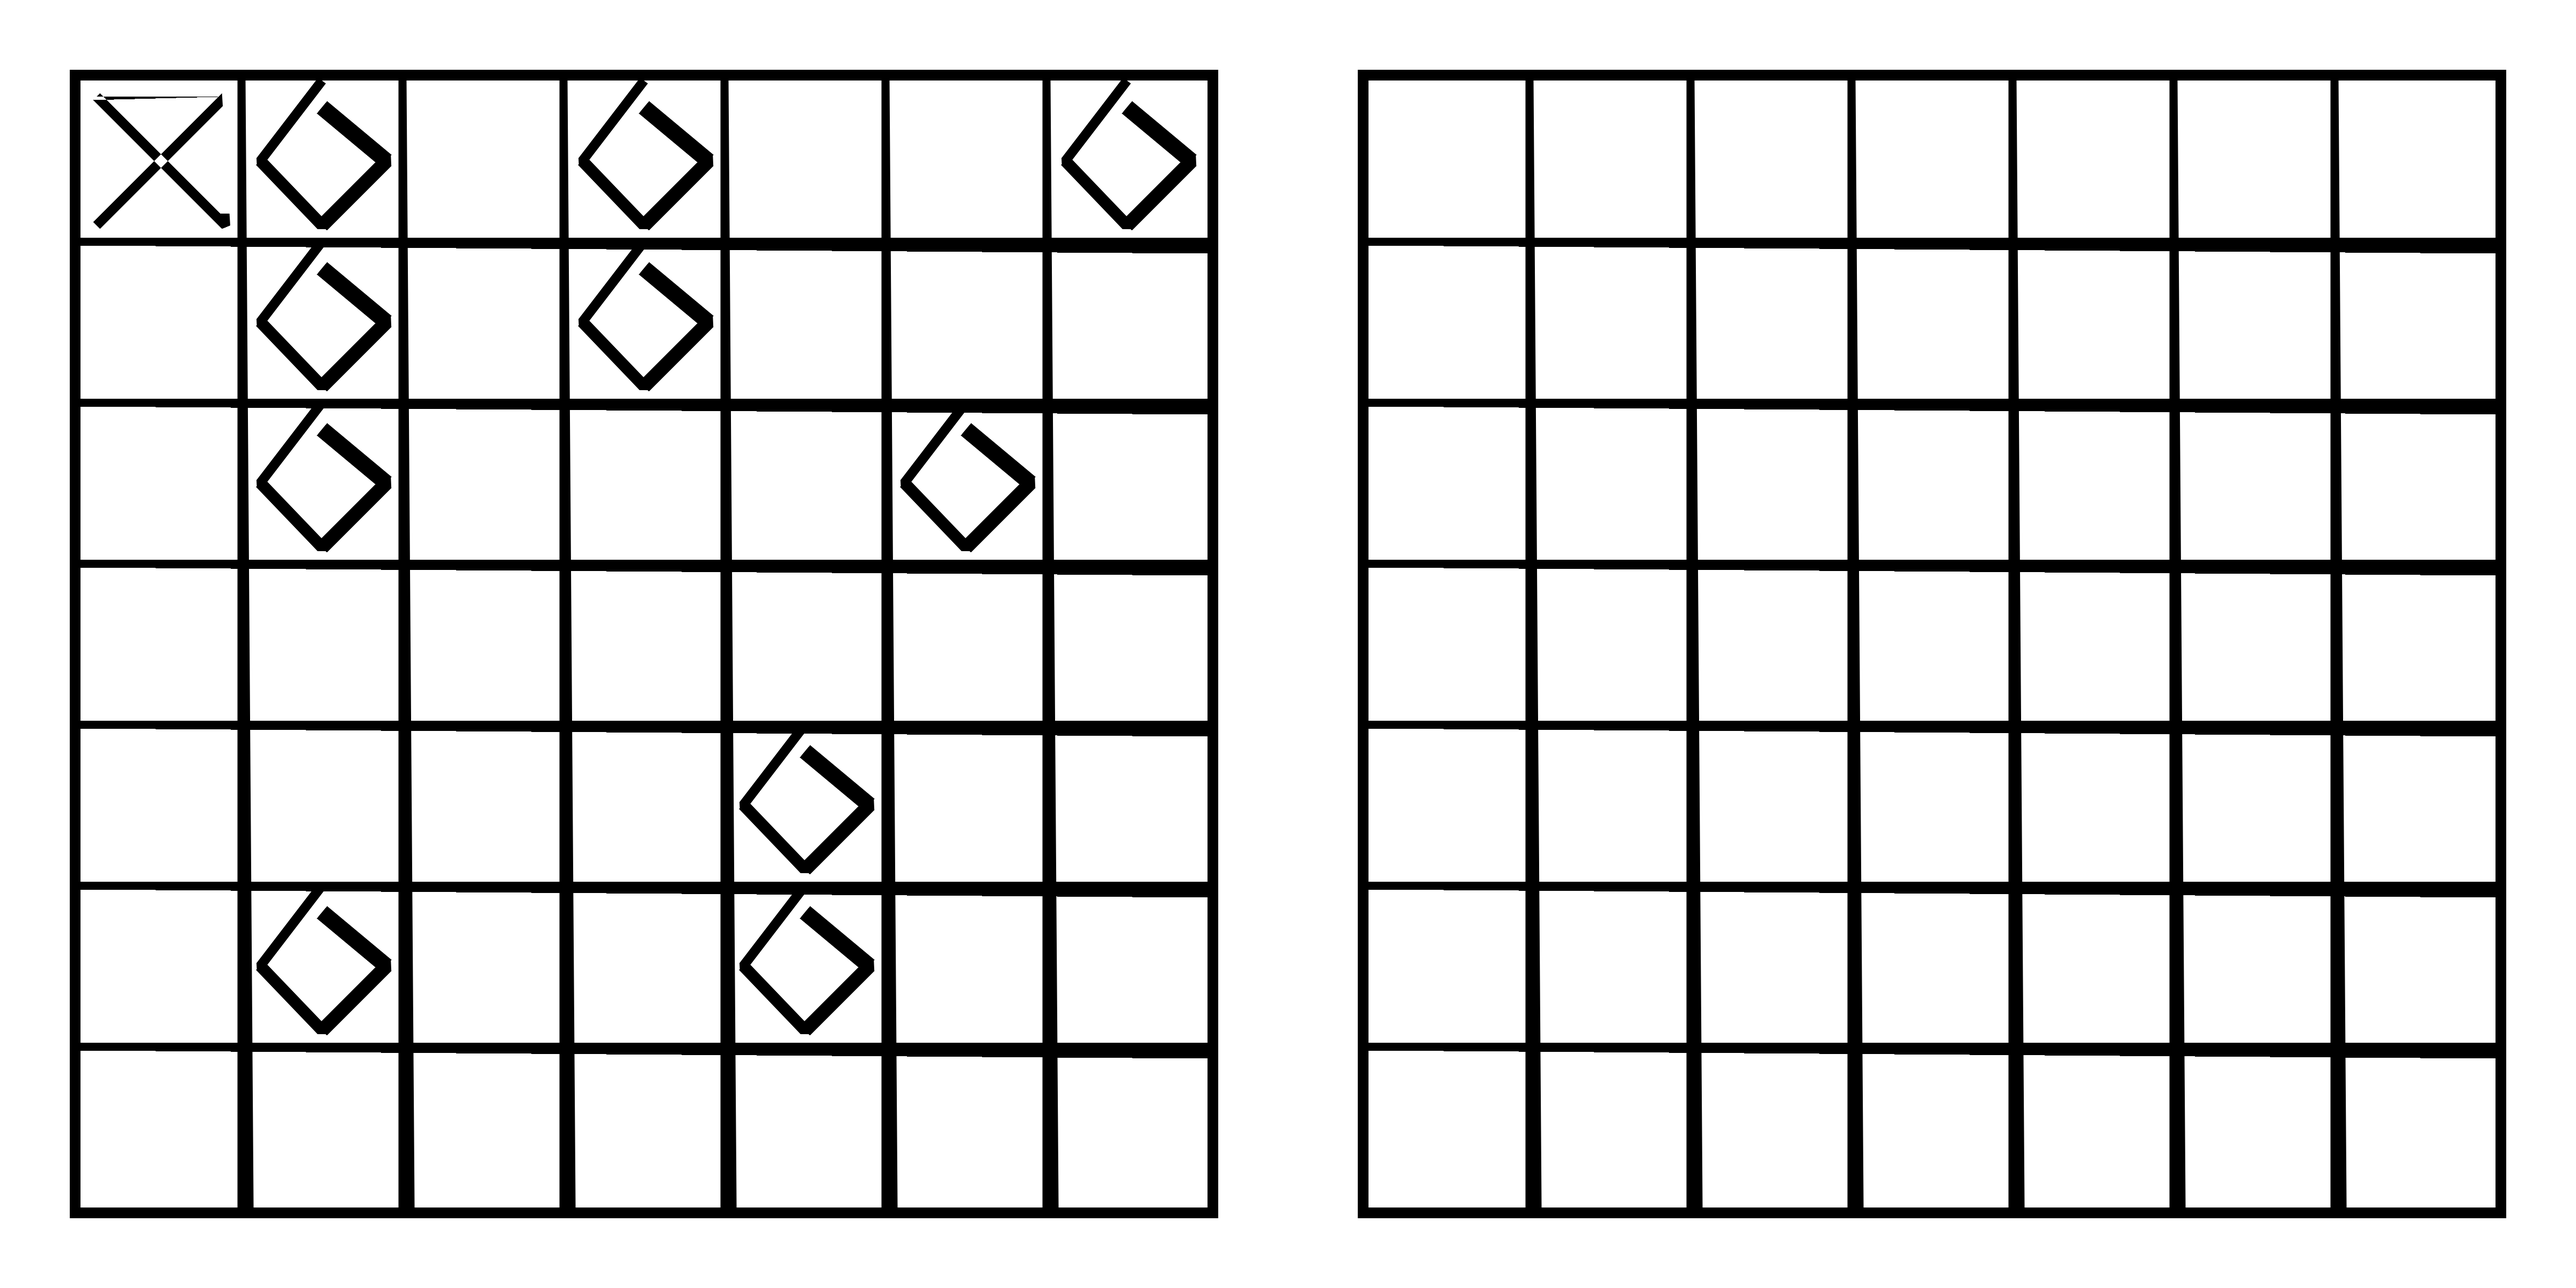
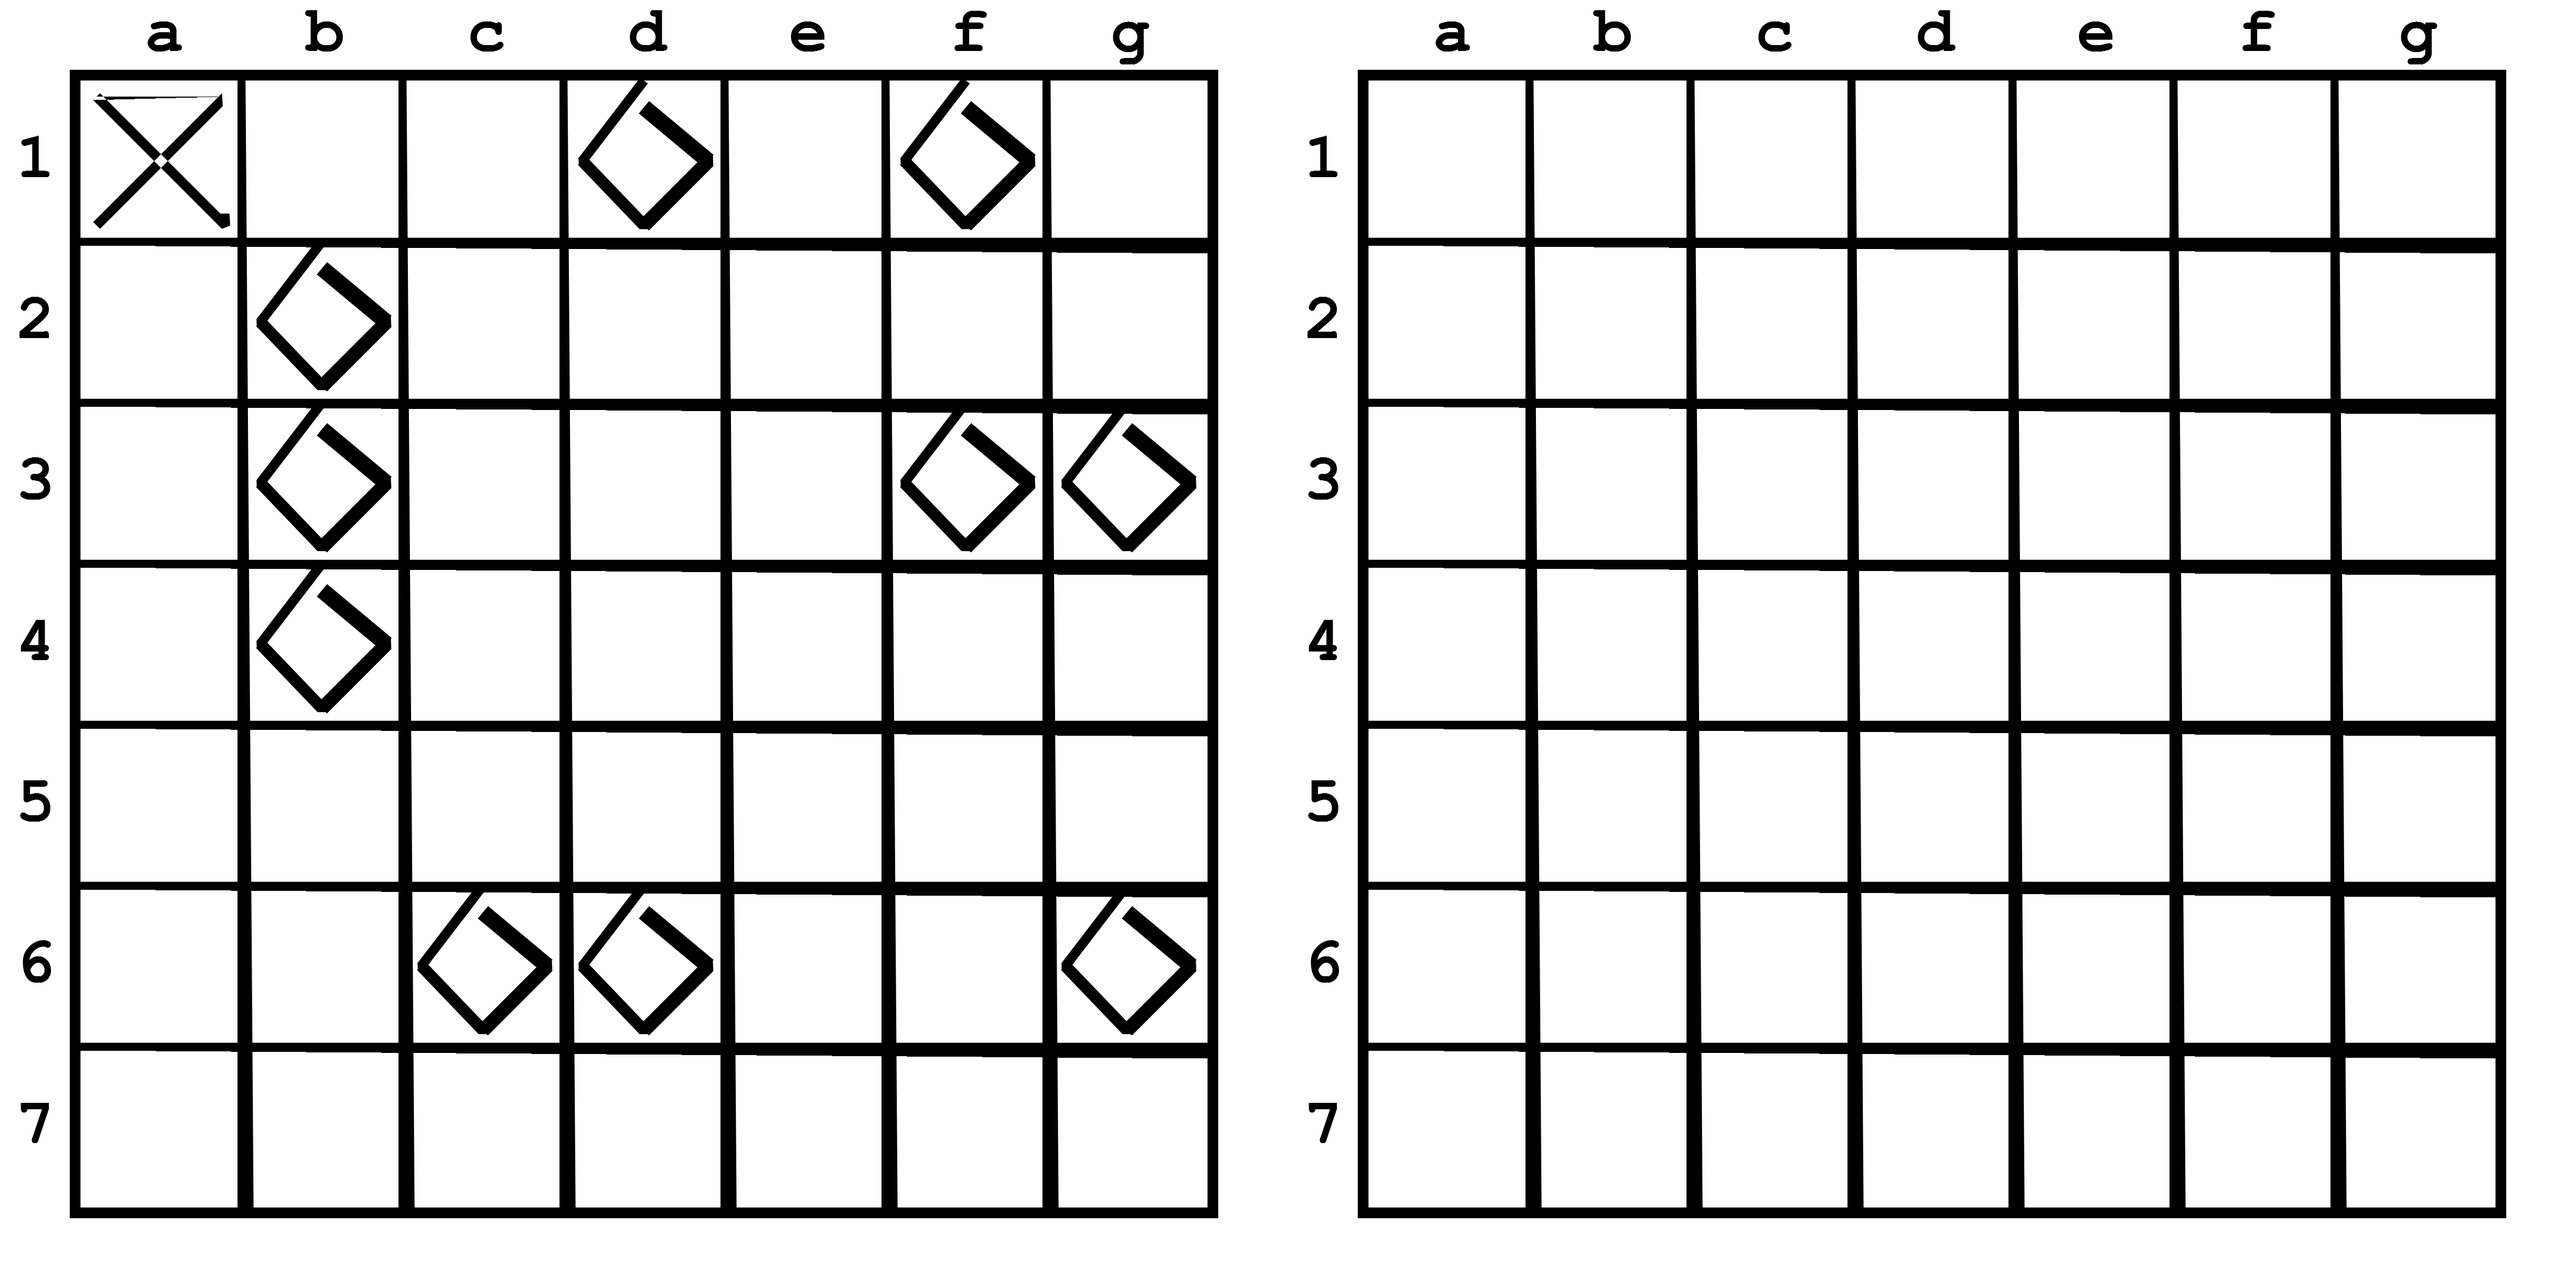
Add letter and number drawing functions
Added functions for drawing letters and numbers around
the playing field

diff --git a/lib/drawing.js b/lib/drawing.js
@@ -1,7 +1,7 @@
 const fs = require('fs');
 const PImage = require('pureimage');
 
-// const font = PImage.registerFont('CourierNewPS-BoldMT.ttf', 'MyFont');
+const font = PImage.registerFont('CourierNewPS-BoldMT.ttf', 'MyFont');
 
 const img1 = PImage.make(4800, 2400);
 const ctx = img1.getContext('2d');
@@ -27,6 +27,26 @@ function row(ctx, i, n) {
   ctx.closePath();
 }
 
+function drawingLetters(n) {
+  font.load(() => {
+    for (let i = 0; i < 7; i++) {
+      ctx.fillStyle = '#000000';
+      ctx.font = '120pt MyFont';
+      ctx.fillText('abcdefg'[i], 2400 * n + 270 + 300 * i, 95);
+    }
+  });
+}
+
+function drawingNumbers(n) {
+  font.load(() => {
+    for (let i = 0; i < 7; i++) {
+      ctx.fillStyle = '#000000';
+      ctx.font = '120pt MyFont';
+      ctx.fillText((i + 1).toString(), 2400 * n + 30, 330 + 300 * i);
+    }
+  });
+}
+
 function encodPNGToStream(callback, resolve) {
   PImage.encodePNGToStream(img1, fs.createWriteStream('board.png'))
     .then(() => {
@@ -41,6 +61,8 @@ function encodPNGToStream(callback, resolve) {
 function drawingGameField(n) {
   ctx.fillRect(2400 * (n - 1) + 130, 130, 2140, 2140);
   ctx.clearRect(2400 * (n - 1) + 150, 150, 2100, 2100);
+  drawingLetters(n - 1);
+  drawingNumbers(n - 1);
 
   for (let i = 1; i < 7; i++) {
     col(ctx, i, n - 1);
